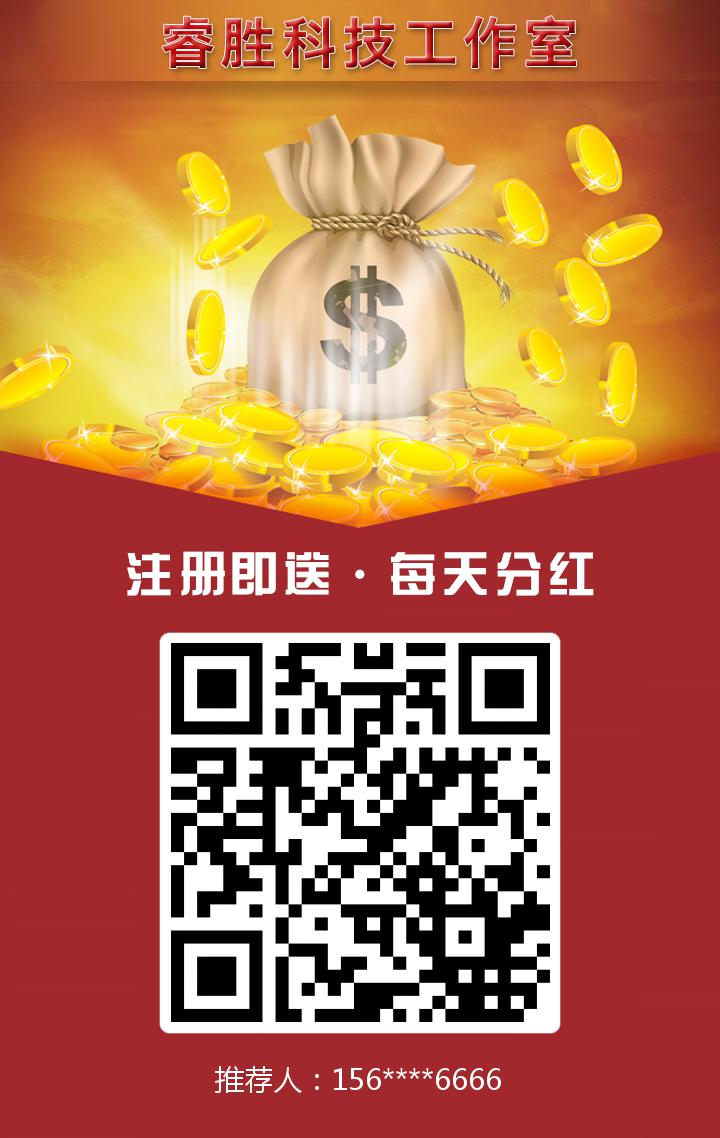
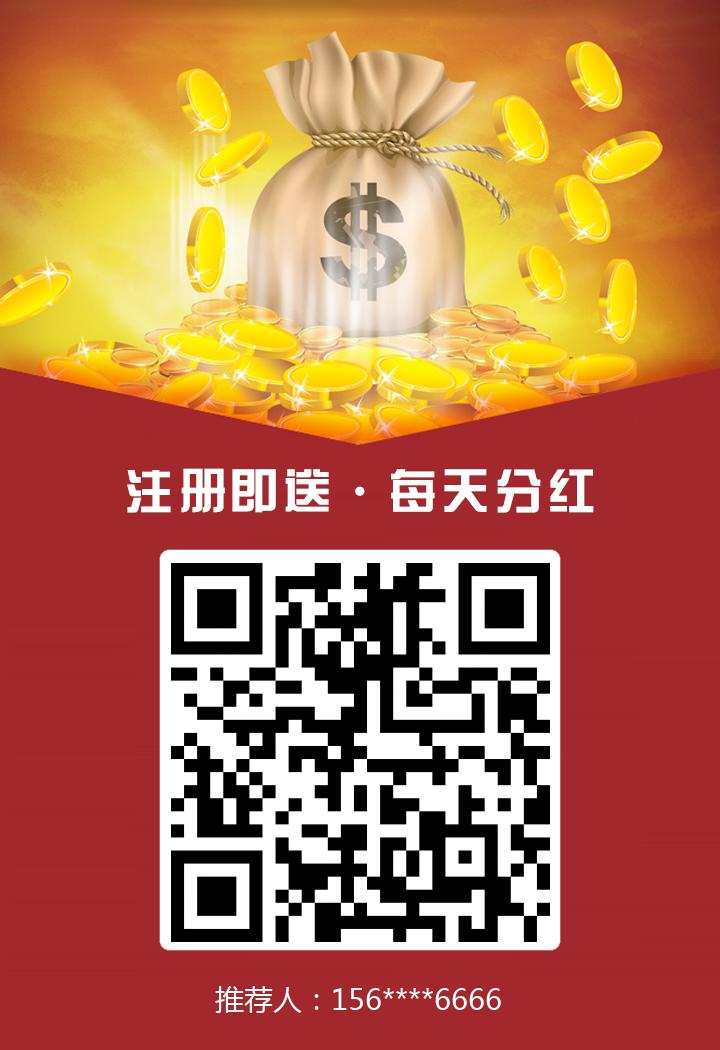
添加直推，间推

diff --git a/themes/default/index/user_qrcode.html b/themes/default/index/user_qrcode.html
@@ -47,7 +47,7 @@ word-break: normal;}
 <div class="yingdao" align="center">
   <p><b>邀请好友</b><a href="javascript:;" onclick="history.back()" title="返回" class="left"></a> <a href="{:url('user/usercenter')}"  title="会员中心" class="right"></a> </p></div>
   
-	
+	  {:config('enter_url')}{:url('base/register',array('reid'=>UID))}
     <div class="dj_link_c">注意：点击 下载二维码 ，保存下来并发送给好友！</div>
    
 <!-- 头部结束 -->

diff --git a/application/common/function/common.php b/application/common/function/common.php
@@ -1306,11 +1306,103 @@ function tj_shop_money($tz_money){
  * $reid 推荐人id
  */
 function zt_jiangli($uid,$reid){
-    config(select_key_value('config.base'));
-    $web_user_ztmoney = config('web_user_ztmoney');//直推奖励金额
+
+    $user = Db::name('Users')->where(['id'=>$reid])->find();
+
+     config(select_key_value('config.base'));
+    if($user['level'] == 1){
+        //(业务员)会员直推奖励95（元）
+         $web_user_ztmoney = config('web_user_ztmoney');//直推奖励金额
+    }elseif($user['level'] == 2){
+        //(业务员)C层升B(经销商)层奖励190（元）
+        $web_user_ztmoney = config('web_user_scmoney1');
+    }elseif($user['level'] == 3){
+        //(经销商)B层升A(代理商)层奖励235（元）
+         $web_user_ztmoney = config('web_user_scmoney2');
+    }
+      // var_dump($web_user_ztmoney);die;
+    // $web_user_ztmoney = config('web_user_ztmoney');//直推奖励金额
     $info = '直推奖励'.$web_user_ztmoney.'元';
     up_score($reid,$uid,$web_user_ztmoney,$info,time());
    
+}
+/**
+ * 间推奖励发放
+ * @param  [type] $uid  [description]
+ * @param  [type] $reid [description]
+ * @return [type]       [description]
+ */
+function jt_jiangli($uid,$reid){
+    config(select_key_value('config.base'));
+    //查询直推id
+    $user = Db::name('Users')->where(['id'=>$reid])->find();
+    if($user){
+        $two = $user['reid'];
+        //查询间推id
+        $user_r = Db::name('Users')->where(['id'=>$two])->find();
+        if($user_r){
+            if($user_r['level'] == 2){
+                //间推经销商95元
+                $web_user_ztmoney = config('web_fanli_3');
+            }elseif($user_r['level'] == 3){
+                //间推代理商140元
+                $web_user_ztmoney = config('web_fanli_4');
+            }
+             $info = '间推奖励'.$web_user_ztmoney.'元';
+            up_score($reid,$uid,$web_user_ztmoney,$info,time());
+        }
+       
+    }
+   
+
+}
+
+/**
+ * 进入公排等级 
+  
+   职位    直推  间推
+   代理商(一级)    235  140
+   经销商(二级)    190  95
+   业务员(三级)    95  0
+
+   满100可体现
+   业务员直推5个同等级升级经销商
+   经销商直推10同等级，升级代理商
+ * @param  [type] $uid  [description]
+ * @param  [type] $reid [description]
+ * @return [type]       [description]
+ */
+function level($reid){
+     $userInfo   = Db::name('Users')->where('id',$reid)->find();
+       
+        $res_r = Db::name('Users')->where(['reid'=>$reid,'status'=>1])->select();
+         foreach($res_r as $k=>$v){
+                $level[] = $v['level'];
+                
+            }
+
+            $lostlist2  =   array_count_values($level);  //算出每个元素的总数
+
+        //查询本身会员等级 1黄金 2白金 3钻石
+        if($userInfo['level'] == 1){
+             // $level =array();
+            
+            //业务员直推5个同等级升级经销商
+            if($lostlist2[1] >= 5 ){
+               $status = Db::name('Users')->where(['id'=>$reid])->update(['level'=>2]);
+              
+               $info = 'id号'.$reid.'业务员升级经销商';
+              
+                up_score($reid,0,0,$info,time());
+            }
+        }
+        if($userInfo['level'] == 2){
+            if($lostlist2[2] >= 10){
+                $status = Db::name('Users')->where(['id'=>$reid])->update(['level'=>3]);
+                $info = 'id号'.$reid.'经销商升级代理商';
+                up_score($reid,0,0,$info,time());
+            }
+        }
 }
 
 /**
@@ -1324,7 +1416,8 @@ function gongpai($uid,$reid,$order_no,$tz_money){
 
     tj_shop_money($tz_money);//把每次投资的金额计入商城的业绩
     zt_jiangli($uid,$reid);//复投时发放直推奖励
-    
+    jt_jiangli($uid,$reid);//复投时发放间推奖励
+    level($reid);//等级升级
     if($reid>0){
         $re_user = Db::name("gongpai")->where(['uid' => $reid,'is_chuju' => 1])->find();        
         $gongpai_count = Db::name("gongpai")->where(1)->count();//统计数据表中数据数量
